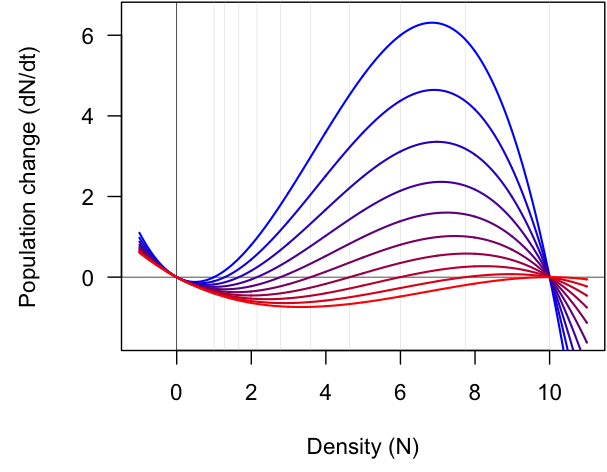
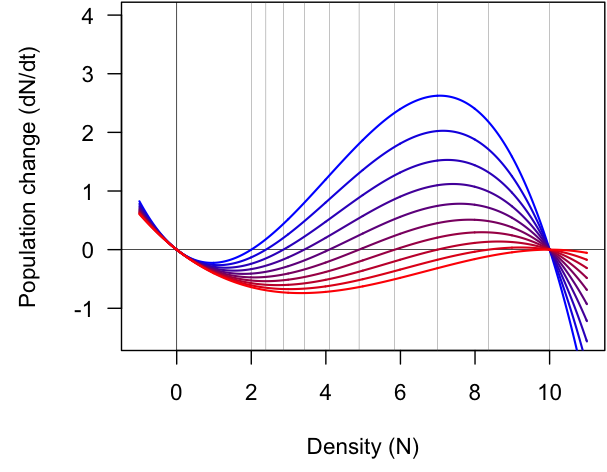
lecture 10

diff --git a/Presentations/Lec10_11_Dynamics.html b/Presentations/Lec10_11_Dynamics.html
@@ -214,9 +214,17 @@ lines(x = Ns, y = pc.change, lwd = 2, col = "red")
 ---
 # Allee population change
 
-Only changing `\(A\)` (from `\(10^0\)` to `\(10^1\)`)
+Only changing `\(A\)` (from 2 to 10) to make Allee effect stronger
 
 ![](Lec10_11_Dynamics_files/figure-html/unnamed-chunk-15-1.png)&lt;!-- --&gt;
+
+---
+# Allee population change
+
+Only changing `\(A\)` (0 to 2) to make Allee effect weaker
+
+![](Lec10_11_Dynamics_files/figure-html/unnamed-chunk-16-1.png)&lt;!-- --&gt;
+
 
 ---
 # Allee effects: analytically determinting stability
@@ -273,7 +281,7 @@ Evaluating at `\(N^* = K\)`:
 --
 
 The solution:
-`$$r\left(\frac{K-A}{A}\right)$$`
+`$$-r\left(\frac{K-A}{A}\right)$$`
 If `\(&lt;0\)`, then the point is stable; if `\(&gt;0\text{, then the point it unstable}\)`.
 
 ---
@@ -286,12 +294,12 @@ The derivative:
 --
 
 Evaluating at `\(N^* = K\)`:
-`$$\frac{d\frac{dN}{dt}}{dN}\Bigg|_{N^*=K} = r\left(\frac{K-A}{K}\right)\left(\frac{A - A}{A}\right) + r(A)\left(\frac{-1}{K}\right)\left(\frac{A - A}{A}\right) + r(A)\left(\frac{K-A}{K}\right)\left(\frac{1}{A}\right)$$`
+`$$\frac{d\frac{dN}{dt}}{dN}\Bigg|_{N^*=A} = r\left(\frac{K-A}{K}\right)\left(\frac{A - A}{A}\right) + r(A)\left(\frac{-1}{K}\right)\left(\frac{A - A}{A}\right) + r(A)\left(\frac{K-A}{K}\right)\left(\frac{1}{A}\right)$$`
 
 --
 
 The solution:
-`$$-r\left(\frac{K-A}{A}\right)$$`
+`$$r\left(\frac{K-A}{A}\right)$$`
 If `\(&lt;0\)`, then the point is stable; if `\(&gt;0\text{, then the point it unstable}\)`.
 
 ---
@@ -300,11 +308,11 @@ If `\(&lt;0\)`, then the point is stable; if `\(&gt;0\text{, then the point it u
 
 --
 
-2. At `\(N^* = K\)`, if `\(r\left(\frac{K-A}{A}\right)\)` is positive (births are greater than deaths, and the Allee threshold is less than the carrying capacity), the equilibrium point is stable.
+2. At `\(N^* = K\)`, if `\(-r\left(\frac{K-A}{A}\right)\)` is positive (births are greater than deaths, and the Allee threshold is less than the carrying capacity), the equilibrium point is stable.
 
 --
 
-3. At `\(N^* = A\)`, if `\(-r\left(\frac{K-A}{A}\right)\)` is negative (births are greater than deaths, and the Allee threshold is less than the carrying capacity), the equilibrium point is unstable. Notice that it's the same as (2.), but as the opposite sign. This should make sense when thinking about it graphically, where the curve slopes must have opposite signs for adjacent equilibria.
+3. At `\(N^* = A\)`, if `\(r\left(\frac{K-A}{A}\right)\)` is negative (births are greater than deaths, and the Allee threshold is less than the carrying capacity), the equilibrium point is unstable. Notice that it's the same as (2.), but as the opposite sign. This should make sense when thinking about it graphically, where the curve slopes must have opposite signs for adjacent equilibria.
 
 
 ---
